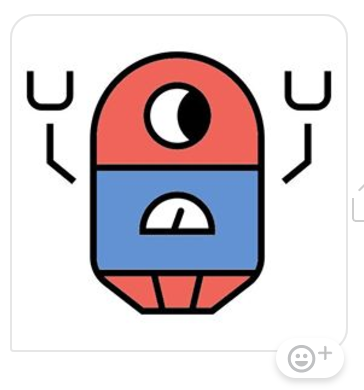
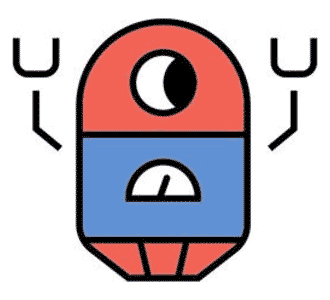
Styling etc

diff --git a/slides/conversation/index.html b/slides/conversation/index.html
@@ -552,8 +552,8 @@
 						<section data-background-color="#6e94cc">
 							<h1>Invention, for example</h1>
 							<div class="flex">
-								<img src="img/example/oppov1.png" width="364" height="390">
-								<img src="img/example/oppov2.png" width="364" height="466">
+								<img src="img/example/oppov1.png" width="330" height="300">
+								<img src="img/example/oppov2.jpg" width="310" height="400">
 							</div>
 							
 							<aside class="notes">
@@ -671,7 +671,7 @@
 							<div class="sl-block" data-block-type="text" >
 								<div class="sl-block-content" >
 									<blockquote>
-										<p>How can a man who, for a significant phase of his formation, shared his master’s opposition to rhetoric have in maturity composed a masterpiece of the formal study of rhetoric?
+										<p>How can a man who, for a significant phase of his formation, shared his master’s opposition to rhetoric have in maturity composed a masterpiece of the formal study of&nbsp;rhetoric?
 											<br/>
 										― Aristotle, The Art of Rhetoric
 											<br/>
